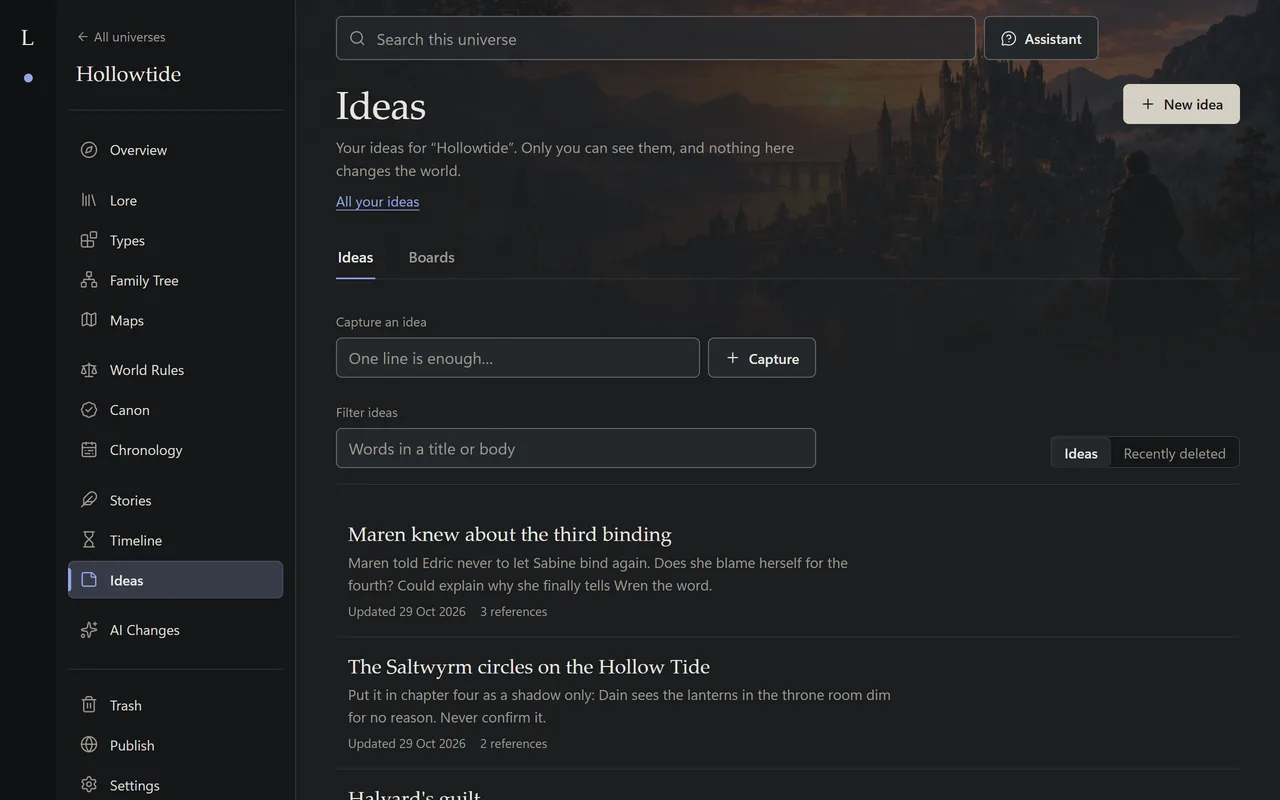
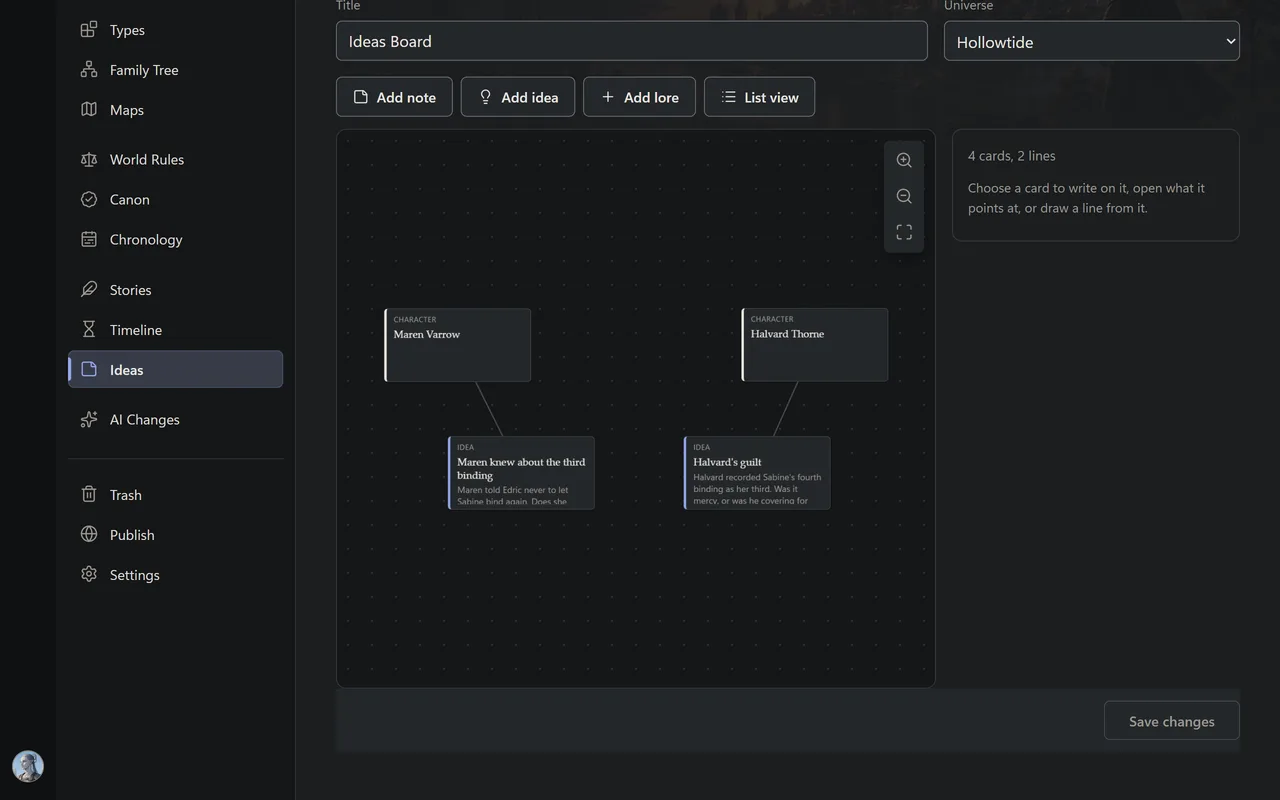
[FEAT] Demo Ideas row shows an idea board with linked cards

diff --git a/site/alpha/public/index.html b/site/alpha/public/index.html
@@ -320,7 +320,7 @@
                     <span class="feature__hook">Room for what isn't settled yet.</span>
                   </summary>
                   <div class="feature__body">
-                  <img class="feature__shot" src="/assets/shots/ideas.webp" alt="A universe's ideas, each linked to the lore and scenes it is about." width="1280" height="800" loading="lazy" decoding="async" />
+                  <img class="feature__shot" src="/assets/shots/ideas.webp" alt="An idea board: idea cards joined by lines to the characters they are about." width="1280" height="800" loading="lazy" decoding="async" />
                   <p>Jot an idea down as a line of text, or spread a few out on a board and join the ones that belong together. An idea can sit in one universe or stay unattached until you know where it goes, and it can point at the entries, scenes or plot beats it is about.</p>
                   <p class="feature__why">Half-formed ideas get a home without cluttering the world you've already settled.</p>
                   </div>
